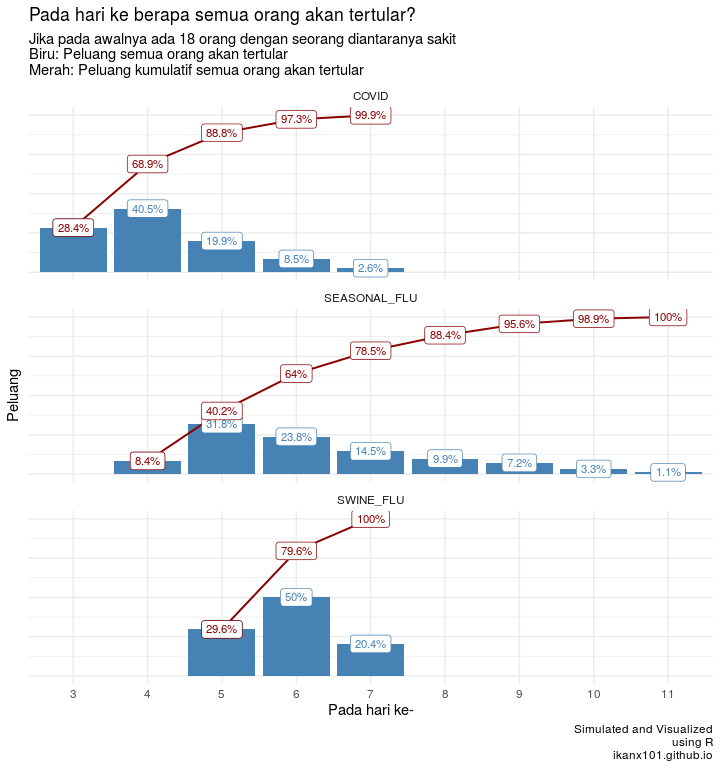
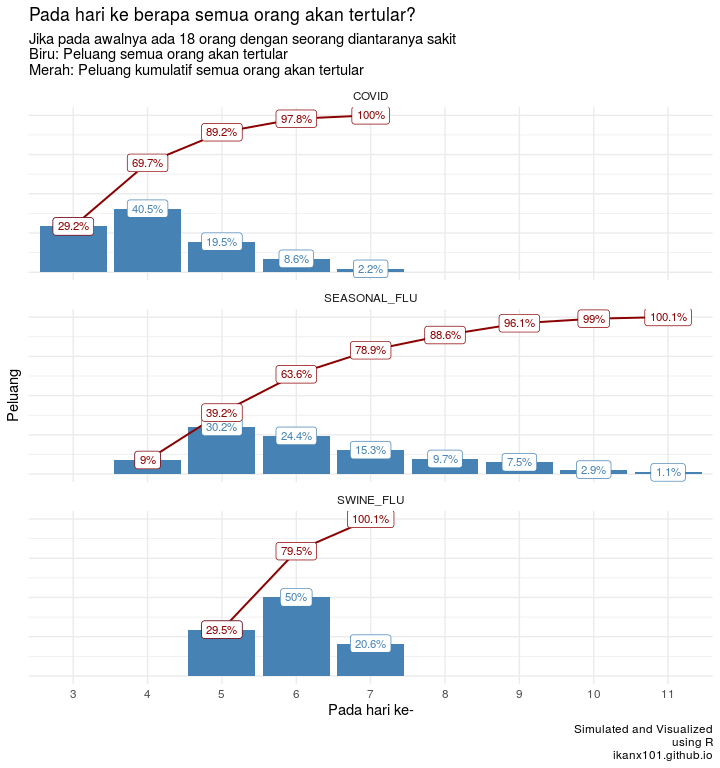
finalsta

diff --git a/Bukan Infografis/nrc corona/posting.md b/Bukan Infografis/nrc corona/posting.md
@@ -1,10 +1,15 @@
-Updated: SIR Compartment Model
+Bagaimana Membedakan Flu dengan COVID-19?
 ================
 
-Kemarin teman SMA saya bercerita bahwa ketika orang tuanya pulang dari
+Kemarin teman saya bercerita bahwa ketika orang tuanya pulang dari
 Inggris beberapa minggu yang lalu, mereka tiba-tiba batuk-batuk dan
 demam. Dalam waktu yang relatif singkat, seisi rumah menjadi tertular
 dan memiliki gejala yang sama.
+
+Namun sekarang kondisi mereka sudah lebih baik dan beberapa sudah sembuh
+seperti sediakala.
+
+Pertanyaannya:
 
 # Apa sih perbedaan antara COVID-19 dengan flu lainnya?
 
@@ -25,31 +30,27 @@ ini.
 Menggunakan model matematika yang pernah saya bikin sebelumnya.
 
 Kita bisa membandingkan seberapa cepat penyebaran **COVID-19**,
-**seasonal flu**, dan **2009 flu** berdasarkan informasi
-![R0](https://latex.codecogs.com/png.latex?R0 "R0")-nya.
+**seasonal flu**, dan **2009 flu** berdasarkan informasi **R0**-nya.
 
 Mari kita mulai analisanya *yah* \!
 
-# Data ![R0](https://latex.codecogs.com/png.latex?R0 "R0")
+# Data **R0**
 
 Dari informasi yang dihimpun di wikipedia.org, saya mendapatkan data
-terkait ![R0](https://latex.codecogs.com/png.latex?R0 "R0") sebagai
-berikut:
+terkait **R0** sebagai berikut:
 
 ![](posting_files/figure-gfm/unnamed-chunk-1-1.png)<!-- -->
 
-Berdasarkan tulisan saya sebelumnya, seberapa besar
-![R0](https://latex.codecogs.com/png.latex?R0 "R0") ini akan
+Berdasarkan tulisan saya sebelumnya, seberapa besar **R0** ini akan
 mempengaruhi ![\\beta](https://latex.codecogs.com/png.latex?%5Cbeta
 "\\beta"), yakni seberapa cepat wabah menyebar.
 
 Mari kita hitung seberapa cepat wabah penyakit ini menyebar menggunakan
-![R0](https://latex.codecogs.com/png.latex?R0 "R0") untuk masing-masing
-penyakit.
+**R0** untuk masing-masing penyakit.
 
-# Simulasi nilai ![R0](https://latex.codecogs.com/png.latex?R0 "R0") dengan Monte Carlo
+# Simulasi Parameter dengan Monte Carlo
 
-> Kenapa sih harus pakai simulasi Monte Carlo?
+## Kenapa sih harus pakai simulasi Monte Carlo?
 
 Ada masukan yang sangat berharga dari senior saya di Matematika ITB.
 Beliau menyatakan bahwa pendekatan deterministik belum cukup baik untuk
@@ -57,22 +58,26 @@ memodelkan keadaan sebenarnya. Oleh karena itu, kali ini saya akan
 menambahkan faktor ketidakpastian dari model deterministik yang sudah
 saya bangun sebelumnya.
 
-> Bagaimana caranya?
+## Ketidakpastian yang Seperti Apa?
 
-Dari data di atas, kita tahu bahwa nilai
-![R0](https://latex.codecogs.com/png.latex?R0 "R0") berada dalam *range*
+Pada kehidupan *real*, kita tidak tahu pasti apakah penyebarannya itu
+cepat atau lambat di beberapa kondisi. Kita juga tidak tahu apsti
+seberapa cepat seseorang bisa sembuh dari penyakit.
+
+## Parameter yang Akan Disimulasikan
+
+Dari data di atas, kita tahu bahwa nilai **R0** berada dalam *range*
 tertentu. Kali ini saya akan menggunakan simulasi Monte Carlo untuk
-*generate various number of*
-![R0](https://latex.codecogs.com/png.latex?R0 "R0") agar didapat selang
-estimasi dari model yang ada.
+*generate various number of* **R0** agar didapat selang estimasi dari
+model yang ada.
 
-Selain itu, akan dilakukan Monte Carlo juga untuk *generate various
-number of* kecepatan seseorang sehat.
+Selain itu, kecepatan seseorang bisa menjadi sehat juga akan dilakukan
+simulasi Monte Carlo.
 
-Akan dilakukan simulasi sebanyak `5000` kali untuk masing-masing
-penyakit.
+Akan dilakukan simulasi sebanyak `5000` kali untuk ketiga tipe penyakit
+di atas.
 
-Nanti parameter yang akan dicari adalah **seberapa lama wabah menyebar
+*Goals* dari model ini adalah menghitung **berapa lama wabah menyebar
 sehingga semua orang sehat tertular**.
 
 ## Asumsi yang digunakan
@@ -91,7 +96,7 @@ lebih mudah bagi kalian membayangkannya.
     karantina, orang sakit tidak mengenakan masker, dan orang sakit
     masih masuk kerja).
 
-## **COVID-19**
+### **COVID-19**
 
 ``` r
 covid = function(n){
@@ -111,7 +116,7 @@ simulasi = data.frame(id=c(1:5000))
 simulasi$hari_covid = sapply(simulasi$id,covid)
 ```
 
-## **Seasonal Flu**
+### **Seasonal Flu**
 
 ``` r
 seasonal = function(n){
@@ -130,7 +135,7 @@ seasonal = function(n){
 simulasi$hari_seasonal = sapply(simulasi$id,seasonal)
 ```
 
-## **Swine Flu**
+### **Swine Flu**
 
 ``` r
 flu = function(n){
@@ -157,8 +162,8 @@ Dari simulasi yang dilakukan di atas, berikut adalah hasilnya:
 
 # Kesimpulan
 
-Hasil grafik di atas seiring sejalan dengan *range* nilai
-![R0](https://latex.codecogs.com/png.latex?R0 "R0") yang ada.
+Hasil grafik di atas seiring sejalan dengan *range* nilai **R0** yang
+ada.
 
   - **COVID-19** lebih cepat menyebar dibandingkan dua jenis flu
     lainnya.
@@ -166,3 +171,5 @@ Hasil grafik di atas seiring sejalan dengan *range* nilai
         mencapai angka hampir `70%`. Semua orang berpeluang besar sudah
         terkena penyakit ini.
   - Sedangkan varian flu lainnya relatif lebih lambat penyebarannya.
+
+Apakah dari uraian di atas kita bisa menyimpulkan sesuatu?
